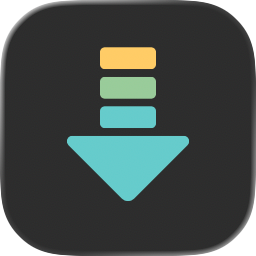
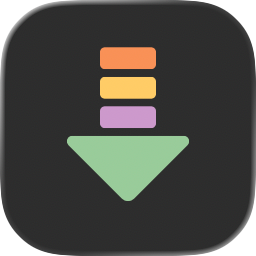
apple, site: orange, yellow and purple segments over a green head
The icon's pieces arrive in orange, yellow and purple and become a green
file, the app's colour for done. Purple keeps the last segment apart from
the head. The site's accent moves from cyan to base16 orange to match,
and the footer bands gain orange.

Changed region(s): [[0.375, 0.1562, 0.625, 0.5], [0.25, 0.5312, 0.75, 0.7812]]

diff --git a/apple/Resources/make-icon.swift b/apple/Resources/make-icon.swift
@@ -10,8 +10,8 @@
 //
 // The picture is a download arrow assembled from parts: three segment bars
 // for the shaft, then a solid head, the way an NZB's articles arrive one by one
-// and become a file. The segments run yellow, green and cyan into a cyan head,
-// on #2d2d2d: base16-eighties, the colours of the CLI and the site. Flat: no
+// and become a file. Orange, yellow and purple segments over a green head, on
+// #2d2d2d: base16-eighties, the colours of the CLI and the site. Flat: no
 // glass, no shadow, no gradients. The system only rounds and rims the square.
 //
 // The icon is an Icon Composer document (AppIcon.icon): icon.json plus one
@@ -74,9 +74,10 @@ struct RGB {
 
 let ground = RGB(hex: 0x2D2D2D)      // base16-eighties base00
 let groundDark = RGB(hex: 0x1F1F1F)  // a step darker for the Dark appearance
-let yellow = RGB(hex: 0xFFCC66)      // base16-eighties base0A
-let green = RGB(hex: 0x99CC99)       // base0B
-let cyan = RGB(hex: 0x66CCCC)        // base0C
+let orange = RGB(hex: 0xF99157)      // base16-eighties base09
+let yellow = RGB(hex: 0xFFCC66)      // base0A
+let purple = RGB(hex: 0xCC99CC)      // base0E
+let green = RGB(hex: 0x99CC99)       // base0B, the app's colour for done
 let white = RGB(hex: 0xFFFFFF)
 
 // MARK: - Geometry (1024 pt canvas, y down)
@@ -95,8 +96,9 @@ let shoulderRadius: CGFloat = 22
 let tipRadius: CGFloat = 34
 let arrowTop: CGFloat = 189
 
-// Top to bottom, so the last segment matches the head.
-let segmentColors = [yellow, green, cyan]
+// Top to bottom. Purple sits opposite the green head on the colour wheel, so
+// the last segment stays apart from it, and no three run in hue order.
+let segmentColors = [orange, yellow, purple]
 
 let segments: [CGRect] = (0..<3).map { index in
   CGRect(x: centreX - shaftWidth / 2, y: arrowTop + CGFloat(index) * (segmentHeight + segmentGap),
@@ -154,7 +156,7 @@ let segmentSVGs = zip(segments, segmentColors).map { rect, color in
   svgDocument("  <rect x=\"\(number(rect.minX))\" y=\"\(number(rect.minY))\" width=\"\(number(rect.width))\" " +
     "height=\"\(number(rect.height))\" rx=\"\(number(segmentRadius))\" fill=\"\(color.svg)\"/>")
 }
-let headSVG = svgDocument("  <path d=\"\(roundedPolygonPathData(head, radii: headRadii))\" fill=\"\(cyan.svg)\"/>")
+let headSVG = svgDocument("  <path d=\"\(roundedPolygonPathData(head, radii: headRadii))\" fill=\"\(green.svg)\"/>")
 
 // Glass is off on every layer, which also leaves the group's lighting,
 // specular and translucency with nothing to do: each piece is one flat colour.
@@ -181,7 +183,7 @@ let iconJSON: [String: Any] = [
   "groups": [
     [
       "name": "Arrow",
-      "layers": [layer("head", cyan)] + segmentColors.indices.map { layer("segment-\($0 + 1)", segmentColors[$0]) },
+      "layers": [layer("head", green)] + segmentColors.indices.map { layer("segment-\($0 + 1)", segmentColors[$0]) },
       // Icon Composer wants an opacity even when there is no shadow.
       "shadow": ["kind": "none", "opacity": 0] as [String: Any],
     ] as [String: Any],

diff --git a/site/css/styles.css b/site/css/styles.css
@@ -1,11 +1,11 @@
 /* dl-nzb.com: one stylesheet for index.html and privacy.html.
-   base16-eighties. No base09/base0F (orange): the accent is base0C cyan.
+   base16-eighties. The accent is base09 orange, as in the app icon.
    Contrast on --bg #2d2d2d: base07 12:1, base05 8.9:1, base04 5.2:1,
-   base0C 7.3:1. base03 (2.9:1) is for lines and decoration only. */
+   base09 5.9:1. base03 (2.9:1) is for lines and decoration only. */
 :root {
   --base00: #2d2d2d; --base01: #393939; --base02: #515151; --base03: #747369;
   --base04: #a09f93; --base05: #d3d0c8; --base06: #e8e6df; --base07: #f2f0ec;
-  --base08: #f2777a; --base0A: #ffcc66; --base0B: #99cc99;
+  --base08: #f2777a; --base09: #f99157; --base0A: #ffcc66; --base0B: #99cc99;
   --base0C: #66cccc; --base0D: #6699cc; --base0E: #cc99cc;
 
   --bg: var(--base00);
@@ -15,7 +15,7 @@
   --text: var(--base05);      /* running text */
   --dim: var(--base04);       /* captions, dates, notes */
   --deco: var(--base03);      /* decoration only */
-  --accent: var(--base0C);
+  --accent: var(--base09);
   --done: var(--base0B);      /* the app's green "done" dot */
 
   --sans: system-ui, -apple-system, "Segoe UI", Roboto, "Helvetica Neue", Arial, sans-serif;
@@ -103,7 +103,7 @@ p, li { text-wrap: pretty; }
 .btn:hover { color: var(--head); border-color: var(--accent); }
 .btn--primary { background: var(--accent); border-color: var(--accent); color: var(--bg); font-weight: 700; }
 .btn--primary::before, .btn--primary::after { color: rgba(45, 45, 45, 0.55); }
-.btn--primary:hover { background: var(--base0D); border-color: var(--base0D); color: var(--bg); }
+.btn--primary:hover { background: var(--base0A); border-color: var(--base0A); color: var(--bg); }
 
 /* small print under buttons: requirements and a couple of links */
 .fine {
@@ -186,8 +186,8 @@ p, li { text-wrap: pretty; }
 .bands {
   margin-top: 6rem; height: 3px;
   background: linear-gradient(90deg,
-    var(--base08) 0 16.66%, var(--base0A) 0 33.33%, var(--base0B) 0 50%,
-    var(--base0C) 0 66.66%, var(--base0D) 0 83.33%, var(--base0E) 0 100%);
+    var(--base08) 0 14.28%, var(--base09) 0 28.57%, var(--base0A) 0 42.85%, var(--base0B) 0 57.14%,
+    var(--base0C) 0 71.42%, var(--base0D) 0 85.71%, var(--base0E) 0 100%);
 }
 .foot { padding: 2.2rem var(--edge) 3rem; font-size: var(--fs-small); color: var(--dim); }
 .foot p { max-width: 44em; }

diff --git a/site/README.md b/site/README.md
@@ -11,7 +11,7 @@ site/
                     iPhone and iPad; command line
   privacy.html      privacy policy (linked from the App Store listings)
   favicon.png       64px, from docs/images/icon.png
-  css/styles.css    base16-eighties; the accent is base0C cyan
+  css/styles.css    base16-eighties; the accent is base09 orange
   js/app.js         the demos' play/pause, and the copy button
   media/            icon, demo videos, TestFlight badge, og.png; see media/README.md
   .assetsignore     keeps the READMEs off the deployed site
@@ -30,8 +30,9 @@ Cloudflare static assets, from the repo root: `npx wrangler deploy`.
 
 ## Notes
 
-- Colours: base16-eighties, no orange. base03 is for lines only; secondary
-  text uses base04 (5.2:1 on the ground).
+- Colours: base16-eighties, with orange as the accent, as in the app icon.
+  base03 is for lines only; secondary text uses base04 (5.2:1 on the
+  ground).
 - The Mac demo plays muted on a loop, except with reduced motion, where it
   waits for **play**. The iPhone demo always waits for **play**. Without JS
   both keep their native controls.
